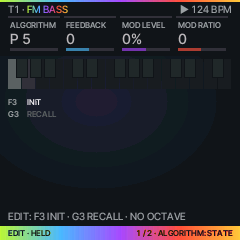
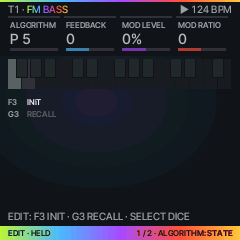
fix(ui): held-layer review fixes; held drum hit survives MORE turns
- lock_turn: a knob turned with a step held keeps its hit (MORE pick,
  refusal, KNOB 3/4 hint, kit-sound messages)
- latched MACRO turns light the column and show the readout
- the ACID layers keep their own MAP/STATE view (ui.uxlv); lylv is
  GLO / SEQ TOOLS / REC / SAVE's only
- EDIT status says SELECT DICE; latched MACRO MAP no longer names F3/G3
- FX macros at OFF drawn dim on the knob row

Changed region(s): [[0.525, 0.875, 0.7875, 0.9333]]

diff --git a/tests/ui_test.c b/tests/ui_test.c
@@ -17097,15 +17097,16 @@ static int test_t9_knobs(void)
         ok &= perf_m[0] != 0 && uxl_panels == n0 + 1u && str_eq(uxl_status(LAYER_FX, k, &col), "STEP LOOP \xB7 1/2") && col == UX_TEXT;
         if (!ok) printf("  FX status \"%s\", %u panels\n", uxl_status(LAYER_FX, k, &col), (unsigned)(uxl_panels - n0));
         turn(EN_ALGO, 1); frame();
-        ok &= ui.lylv == 1u && uxl_panels == n0 + 2u;
+        ok &= uxl_state(LAYER_FX) == 1u && uxl_panels == n0 + 2u;
         turn(EN_ALGO, 3); frame();
-        ok &= ui.lylv == 1u;                             /* (no further: two views) */
+        ok &= uxl_state(LAYER_FX) == 1u;                 /* (no further: two views) */
         n0 = uxl_panels;
         turn(EN_ALGO, -1); frame();
-        ok &= ui.lylv == 0u && uxl_panels == n0 + 1u;
-        ui.lylv = 2;                                     /* (GLO's STATE left over: STATE here, one detent back MAP) */
+        ok &= uxl_state(LAYER_FX) == 0u && uxl_panels == n0 + 1u;
+        ui.lylv = 2;                                     /* (GLO's STATE left over: not FX's, 3b task 9 fix; still MAP) */
         turn(EN_ALGO, -1); frame();
-        ok &= ui.lylv == 0u;
+        ok &= uxl_state(LAYER_FX) == 0u && ui.lylv == 2u;
+        ui.lylv = 0;
     }
     uxt9_close(2);
     pm_off();
@@ -17283,6 +17284,105 @@ static int test_t9_lock(void)
     return bad;
 }
 
+/* (3b task 9 fix) DRUM-X's grid, DRUM MORE shown last, a hit on step 5 held: mode 0 KNOB 1 picks a row, 1 KNOB 2 on a
+ * kit byte (refused), 2 KNOB 3 (the hint), 3 nothing turned (a tap: the hit goes). 1: the hit there after the key is let go */
+static int uxt9f_hit(int mode)
+{
+    track_t *t;
+    uint32_t kn;
+    ui_power_on(); frame();
+    song.sel = 3; t = &trk[3];
+    track_defaults_steps(t); t->p[P_SLEN] = 16;
+    motion_clear(t);
+    press(B_EDIT); frame();
+    turn(EN_SELECT, 3); frame();
+    uxm_at[uxm_key()].sel = (uint8_t)uxe_row(&UXM_DRM, P_E7);
+    nav_put(SEC_SEQ, "STEP"); frame();
+    grid_hit(t, 4, ui.lane, 1);
+    if (!((step_lanes(&t->step[4]) >> ui.lane) & 1u))
+        return -1;
+    kn = key_at(0, 4);
+    fm1_in.notes |= 1u << kn; host_notes |= 1u << kn; frame();
+    if (mode == 0) { turn(EN_K1, 1); frame(); }
+    if (mode == 1) { turn(EN_K1, 1); frame(); turn(EN_K2, 1); frame(); }
+    if (mode == 2) { turn(EN_K3, 1); frame(); }
+    fm1_in.notes &= ~(1u << kn); host_notes &= ~(1u << kn); frame(); frame();
+    return (int)((step_lanes(&t->step[4]) >> ui.lane) & 1u);
+}
+static int test_t9_fix(void)
+{
+    int bad = 0, ok, h[4], m;
+    ux_knob_t k[4];
+    uint16_t col;
+    char nm[16];
+    uint32_t c;
+    /* 1. a MORE pick, a refusal or KNOB 3 with a hit held on the grid: the hit stays (a tap alone still takes it) */
+    for (m = 0; m < 4; m++)
+        h[m] = uxt9f_hit(m);
+    ok = h[0] == 1 && h[1] == 1 && h[2] == 1 && h[3] == 0;
+    if (!ok) printf("  hit after: pick %d, refused %d, KNOB 3 %d, tap %d\n", h[0], h[1], h[2], h[3]);
+    bad += check("3b task 9 fix: DRUM grid, MORE: a hit held for a KNOB 1 pick, a refused KNOB 2, KNOB 3 stays when let go", ok);
+    /* 3. MACRO latched: a turn lights its column and says MACRO 1 . its value */
+    ui_power_on(); frame();
+    go_title("ENV"); frame();
+    btn_down(B_LFO); frames(800); btn_up(B_LFO); frames(400);
+    ok = mac_latch && !layer_open();
+    turn(EN_K1, 4); frame();
+    uxl_knobs(LAYER_MACRO, k);
+    ok &= ux_knob_hot() == 0 && !strncmp(uxl_status(LAYER_MACRO, k, &col), "MACRO 1 \xB7 ", 10) && col == UX_TEXT;
+    if (!ok) printf("  latched: hot %d \"%s\"\n", (int)ux_knob_hot(), uxl_status(LAYER_MACRO, k, &col));
+    /* 5. .. its keys do nothing while latched: F3 and G3 not named on its MAP (held: DICE, CLEAR) */
+    ok &= ly_keyname(LAYER_MACRO, 0, 0, nm) == LS_OFF && !nm[0];
+    (void)ly_keyname(LAYER_MACRO, 0, 1, nm);
+    ok &= !nm[0];
+    press(B_LFO); frames(100);
+    btn_down(B_LFO); frames(800);
+    (void)ly_keyname(LAYER_MACRO, 0, 0, nm);
+    ok &= layer_open() == LAYER_MACRO && str_eq(nm, "DICE");
+    btn_up(B_LFO); frames(400);
+    if (mac_latch) { press(B_LFO); frames(100); }
+    bad += check("  MACRO latched: a turn lights the column, MACRO 1 . value on the status line; F3 / G3 unnamed (held: DICE)", ok);
+    /* 4. a view chosen in one layer: not what another opens (FX STATE: GLO still MAP; GLO KNOBS: FX still STATE, EDIT MAP) */
+    ui_power_on(); frame();
+    go_title("ENV"); frame();
+    btn_down(B_FX); frames(800);
+    turn(EN_ALGO, 1); frame();
+    ok = uxl_state(LAYER_FX) == 1u;
+    btn_up(B_FX); frames(400);
+    if (fx_lock) { press(B_FX); frames(100); }
+    btn_down(B_GLO); frames(800);
+    ok &= ui.layer == LAYER_GLO && ui.lylv == 0u;
+    turn(EN_ALGO, 1); frame();
+    ok &= ui.lylv == 1u;
+    btn_up(B_GLO); frames(400);
+    btn_down(B_FX); frames(800);
+    ok &= ui.layer == LAYER_FX && uxl_state(LAYER_FX) == 1u && ui.lylv == 1u;
+    btn_up(B_FX); frames(400);
+    if (fx_lock) { press(B_FX); frames(100); }
+    btn_down(B_EDIT); frames(800);
+    ok &= ui.layer == LAYER_EDIT && uxl_state(LAYER_EDIT) == 0u;
+    btn_up(B_EDIT); frames(400);
+    if (!ok) printf("  views: FX %u EDIT %u GLO %u\n", (unsigned)uxl_state(LAYER_FX), (unsigned)uxl_state(LAYER_EDIT), ui.lylv);
+    bad += check("  a layer's view (ALGORITHM) its own: FX's STATE not GLO's, GLO's KNOBS not FX's, EDIT still MAP", ok);
+    /* 5. EDIT's status line says SELECT dices (a synth and DRUM) */
+    ok = strstr(UXL_SAY[UXL_S_EDIT], "SELECT DICE") && strstr(UXL_SAY[UXL_S_EDRM], "SELECT DICE");
+    bad += check("  EDIT's status line: SELECT DICE (synth, DRUM)", ok);
+    /* 6. FX's macros at OFF: dim; one in use: not */
+    ui_power_on(); frame();
+    for (c = 0; c < 4u; c++) perf_m[c] = 0;
+    uxl_knobs(LAYER_FX, k);
+    ok = k[0].off && k[1].off && k[2].off && k[3].off && str_eq(k[2].value, "OFF");
+    perf_m[2] = 40;
+    uxl_knobs(LAYER_FX, k);
+    ok &= k[0].off && !k[2].off;
+    perf_m[2] = 0;
+    uxl_knobs(LAYER_MACRO, k);
+    ok &= !k[0].off;
+    bad += check("  FX's macros at OFF dim on the knob row (in use: not)", ok);
+    ui_power_on();
+    return bad;
+}
+
 int main(void)
 {
     setvbuf(stdout, NULL, _IONBF, 0);
@@ -17447,6 +17547,7 @@ int main(void)
     bad += test_t9_knobs();
     bad += test_t9_names();
     bad += test_t9_lock();
+    bad += test_t9_fix();                               /* (3b task 9 fix) */
     bad += test_edit_syn_is_sound();
     bad += test_edit_syn_knobs_move();
     bad += test_edit_lofi_knob1();

diff --git a/firmware/src/ux_layer.c b/firmware/src/ux_layer.c
@@ -32,8 +32,8 @@ static const char *const UXL_KEYP[16] = {"REPEAT 1/8", "REPEAT 1/16", "REPEAT 1/
 /* the status line's words when nothing else is said: the layer, what its keys and OCT do */
 enum { UXL_S_FX, UXL_S_LATCH, UXL_S_LOCK, UXL_S_EDIT, UXL_S_EDRM, UXL_S_SCL, UXL_S_MAC, UXL_S_MLAT, UXL_S_N };
 static const char *const UXL_SAY[UXL_S_N] = {"FX: KEYS PLAY EFFECTS \xB7 BLACK KEYS MUTE", "FX LATCH: KEYS ON / OFF \xB7 OCT- ALL OFF",
-                                             "FX LOCKED: PRESS FX TO UNLOCK", "EDIT: F3 INIT \xB7 G3 RECALL \xB7 NO OCTAVE",
-                                             "EDIT: F3 INIT \xB7 G3 RECALL \xB7 BLACK KEYS MUTE",
+                                             "FX LOCKED: PRESS FX TO UNLOCK", "EDIT: F3 INIT \xB7 G3 RECALL \xB7 SELECT DICE",
+                                             "EDIT: SELECT DICE \xB7 BLACK KEYS MUTE",
                                              "SCL: A KEY SETS THE ROOT \xB7 NO OCTAVE", "LFO: F3 DICE \xB7 G3 CLEAR \xB7 SELECT DICE",
                                              "MACROS LATCHED: PRESS LFO TO CLOSE"};
 static const char *const UXL_GXSAY[4] = {"GLITCH HELD: ITS FOUR KNOBS", "TAPE STOP HELD: KNOB 1 SCRATCHES",
@@ -43,6 +43,8 @@ enum { UXL_W_FX, UXL_W_LATCH, UXL_W_LOCK, UXL_W_EDIT, UXL_W_SCL, UXL_W_MAC, UXL_
 static const char *const UXL_WHERE[7] = {"FX \xB7 HOLD", "FX \xB7 LATCH", "FX \xB7 LOCKED", "EDIT \xB7 HELD", "SCL \xB7 HELD",
                                          "LFO \xB7 MACROS", "LFO \xB7 LATCHED"};
 static const char *const UXL_ALGO[2] = {"1 / 2 \xB7 ALGORITHM: STATE", "2 / 2 \xB7 ALGORITHM: MAP"};
+/* (3b task 9 fix) layer l's view: 1 STATE, 0 MAP (its own: ui.uxlv; GLO SEQ TOOLS REC SAVE keep ui.lylv) */
+static uint32_t uxl_state(uint32_t l) { return (ui.uxlv >> l) & 1u; }
 static uint32_t uxl_panels;                             /* the panels drawn (tests/ui_test.c: one a change, none idle) */
 
 /* KNOB 1..4 of layer l as the knob row shows them */
@@ -53,6 +55,7 @@ static void uxl_knobs(uint32_t l, ux_knob_t k[4])
         k[c].label = "";
         k[c].value[0] = 0;
         k[c].bar = 0;
+        k[c].off = 0;
     }
     if (l == LAYER_FX && perf_gfocus() != PF_N) {       /* a glitcher's key down: its four */
         uint32_t x = perf_gx(perf_gfocus());
@@ -74,6 +77,7 @@ static void uxl_knobs(uint32_t l, ux_knob_t k[4])
             uint32_t m = perf_m[c];
             k[c].label = UXL_PM[c];
             k[c].bar = (uint8_t)(m * 255u / PM_MAX[c]);
+            k[c].off = (uint8_t)(c == 1u ? !(pm_trn() % 8u) : !m);   /* (3b task 9 fix: OFF dim, as JIANT's cards) */
             if (!c)
                 str_cpy(k[c].value, UXL_LOOP[(m + 2u) / 3u % 5u], sizeof k[c].value);
             else if (c == 1u)
@@ -289,14 +293,14 @@ static void ux_layer_draw(void)
         str_cpy(ly_card[c].l, k[c].label, sizeof ly_card[c].l);
         str_cpy(ly_card[c].v, k[c].value, sizeof ly_card[c].v);
     }
-    sig = layer_sig(l) * 31u + ux_glow_eff(1) * 977u + (ui.lylv ? 7u : 0u);
+    sig = layer_sig(l) * 31u + ux_glow_eff(1) * 977u + (uxl_state(l) ? 7u : 0u);
     for (c = 0; c < 4u; c++)
         sig = str_hash(sig * 31u + k[c].bar, k[c].value);
     if (all || sig != panel_sig) {
         panel_sig = sig;
         uxl_panels++;
         ux_panel_begin(1);
-        if (ui.lylv) {                                  /* STATE (ALGORITHM: MAP <-> STATE) */
+        if (uxl_state(l)) {                                  /* STATE (ALGORITHM: MAP <-> STATE) */
             lst_ux = 1;
             layer_state(l);
             lst_ux = 0;
@@ -305,10 +309,10 @@ static void ux_layer_draw(void)
         ux_panel_end();
     }
     w = uxl_where(l);
-    sig = str_hash(str_hash(3u, w), UXL_ALGO[ui.lylv ? 1 : 0]);
+    sig = str_hash(str_hash(3u, w), UXL_ALGO[uxl_state(l)]);
     if (all || sig != foot_sig) {
         foot_sig = sig;
-        ux_footer(w, UXL_ALGO[ui.lylv ? 1 : 0]);
+        ux_footer(w, UXL_ALGO[uxl_state(l)]);
     }
     st = uxl_status(l, k, &sc);
     ux_status(st, sc);

diff --git a/tests/ui_render.c b/tests/ui_render.c
@@ -1265,7 +1265,7 @@ static void setup(int s)
         break;
     }
     case S_LY_FX_KNOBS: case S_LY_FX_STATE:            /* (0.8.5) a layer's lens: FX's KNOBS, STATE */
-        go_home(); ui.layer = LAYER_FX; ui.lylv = s == S_LY_FX_KNOBS ? 1 : 2;
+        go_home(); ui.layer = LAYER_FX; ui.uxlv = 1u << LAYER_FX;   /* (3b task 9: the ACID FX has MAP and STATE, its own) */
         perf_held = perf_act = PF_BIT(PF_R16) | PF_BIT(PF_GLT) | PF_BIT(PF_SCRU) | PF_BIT(PF_M1 + 1);
         perf_m[0] = 6; perf_m[1] = 7; perf_m[2] = 40; perf_m[3] = 30; pf.sw[0] = 1u << 23;   /* (0.9.14: the macros) */
         break;
@@ -1504,11 +1504,11 @@ static void setup(int s)
         perf_held = perf_act = perf_down = PF_BIT(PF_TAPE); pf.mode = BM_TAPE; pf.state = 1; perf_gp[GX_TAPE][2] = -100;
         break;
     case S_FX_SHUF:
-        song.playing = 1; ui.layer = LAYER_FX; ui.lylv = 1;
+        song.playing = 1; ui.layer = LAYER_FX; ui.uxlv = 1u << LAYER_FX;
         perf_held = perf_act = perf_down = PF_BIT(PF_SHUF) | PF_BIT(PF_R8); perf_gp[GX_SHUF][0] = 100; perf_gp[GX_SHUF][2] = 100;
         break;
     case S_FX_FRZ:
-        song.playing = 1; ui.layer = LAYER_FX; ui.lylv = 1;
+        song.playing = 1; ui.layer = LAYER_FX; ui.uxlv = 1u << LAYER_FX;
         perf_held = perf_act = perf_down = PF_BIT(PF_FRZ); perf_gp[GX_FRZ][1] = 12; perf_gp[GX_FRZ][3] = 0;
         break;
     case S_REVERB:                                      /* (3b task 8) SPACE: SHIMMER at LOAD LITE (plays as ROOM: said), REV TYPE
@@ -1896,7 +1896,7 @@ static void setup(int s)
      * turned: its readout), FX held (REPEAT 1/16, GLITCH, CRUSH, T2's mute; the macros up), SCL (D# MINOR), FX's STATE (EDIT on a
      * DRUM-X track: layer_edit_drum, S_EDIT_DRUM); a step held on STEP with EDIT's MORE the locks' page (MORPH locked on it) */
     case S_LAYER_EDIT: case S_LAYER_MACRO: case S_LAYER_FX: case S_LAYER_SCL: case S_LAYER_FX_STATE:
-        go_title("ENV"); ui.lylv = 0; ux_hot_k = -1;
+        go_title("ENV"); ui.lylv = 0; ui.uxlv = 0; ux_hot_k = -1;
         ui.layer = (uint8_t)(s == S_LAYER_EDIT ? LAYER_EDIT : s == S_LAYER_MACRO ? LAYER_MACRO :
                              s == S_LAYER_SCL ? LAYER_SCL : LAYER_FX);
         if (s == S_LAYER_MACRO) {
@@ -1908,7 +1908,7 @@ static void setup(int s)
         if (s == S_LAYER_FX || s == S_LAYER_FX_STATE) {
             perf_held = perf_act = PF_BIT(PF_R16) | PF_BIT(PF_GLT) | PF_BIT(PF_SCRU) | PF_BIT(PF_M1 + 1);
             perf_m[0] = 6; perf_m[1] = 7; perf_m[2] = 40; perf_m[3] = 30;
-            ui.lylv = (uint8_t)(s == S_LAYER_FX_STATE);
+            ui.uxlv = (uint16_t)(s == S_LAYER_FX_STATE ? 1u << LAYER_FX : 0u);
         }
         if (s == S_LAYER_SCL) { TSEL->p[P_ROOT] = 3; TSEL->p[P_SCALE] = 2; }
         break;

diff --git a/firmware/src/ui_input.c b/firmware/src/ui_input.c
@@ -675,6 +675,8 @@ static void lock_turn(uint32_t k, int32_t s, uint64_t held)
         ui_message("STOP TO EDIT");
         return;
     }
+    ui.plk_rm &= ~held;                                 /* (held for a lock: its hit stays; 3b task 9 fix: also a MORE pick, a
+                                                         * refusal, an empty card's turn) */
     if (id == 0xFFu) {                                  /* (an empty card: nothing to lock) */
         const page_t *lp = ui.plk_src && ui.plk_src <= NPAGES ? &PAGES[ui.plk_src - 1u] : 0;
         uint32_t v = lp ? page_id(lp, k & 3u) : 0xFFu;
@@ -694,7 +696,6 @@ static void lock_turn(uint32_t k, int32_t s, uint64_t held)
             ui_message("KIT SOUND: NO STEP LOCK");
         return;
     }
-    ui.plk_rm &= ~held;                                 /* (held for a lock: its hit stays) */
     d = track_desc(t, id);
     s = accel(EN_K1 + k, s, d->fmt == F_ENUM ? 0 : d->max - d->min);
     for (i = 0; i < NSTEP; i++) {
@@ -2163,9 +2164,11 @@ static void ui_input_frame(void)
              * OCT- put back the layer's track only) */
             int32_t a = panel_enc(EN_ALGO);
             if (a && ui.layer) {
-                int ux = ux_layer_owns(ui.layer);       /* (3b task 9: the ACID layers' MAP, STATE, their knob row always shown;
-                                                         * GLO's STATE, 2, is their STATE) */
-                ui.lylv = (uint8_t)clamp((int32_t)(ux && ui.lylv ? 1u : ui.lylv) + a, 0, ux ? 1 : 2);
+                if (ux_layer_owns(ui.layer))            /* (3b task 9: the ACID layers' MAP, STATE, their knob row always shown;
+                                                         * fix: each its own, uxlv, not GLO's lens) */
+                    ui.uxlv = (uint16_t)(a > 0 ? ui.uxlv | 1u << ui.layer : ui.uxlv & ~(1u << ui.layer));
+                else
+                    ui.lylv = (uint8_t)clamp((int32_t)ui.lylv + a, 0, 2);
                 ui.force = 1;
                 combo = 1;
             }
@@ -2522,6 +2525,7 @@ static void ui_input_frame(void)
         }
         if (mac_latch && !ui.menu && !ui.confirm) {     /* (JIANT 0.4) the MACRO layer latched: M1..M4 */
             macro_v[k] = (uint8_t)clamp(macro_v[k] + accel(EN_K1 + k, s, 127), 0, 127);
+            ux_knob_touch(k);                           /* (3b task 9 fix: as held, its column lit, its readout) */
             continue;
         }
         if (ui.entry_open && !ui.home && cur_page()->graph == GR_ROLL && !grid_on() && lock_held() &&

diff --git a/firmware/src/ui.c b/firmware/src/ui.c
@@ -275,7 +275,10 @@ static struct {
     uint8_t menu;                /* 0 off, 1 list, 2 about + credits (HOME held), 3 ABOUT > PROFILE (0.9.14) */
     uint8_t menu_sel;            /* MENU: the setting turned last (menu_items.c MI_*; its page MPAGE), kept while it runs */
     uint8_t mlv;                 /* (0.8.5) MENU's view: 1 TAB (its rows; 0.9.2: always, 0 MENU and 2 ROW for the renders) */
-    uint8_t lylv;                /* (0.8.5) a held layer's lens: 0 MAP, 1 KNOBS, 2 STATE (ALGORITHM while held) */
+    uint8_t lylv;                /* (0.8.5) a held layer's lens: 0 MAP, 1 KNOBS, 2 STATE (ALGORITHM while held); GLO, SEQ
+                                  * TOOLS, REC, SAVE (JIANT's overlay) */
+    uint16_t uxlv;               /* (3b task 9 fix) the ACID layers' (EDIT MACRO FX SCL, ux_layer.c) own: a bit a layer
+                                  * (1 << LAYER_*), STATE; clear MAP */
     uint16_t menu_scroll;        /* continuous ABOUT + CREDITS position, pixels */
     uint32_t menu_sig, home_t0;  /* HOME press time (btn_hold) */
     uint8_t force;               /* full redraw pending */
@@ -649,6 +652,9 @@ static int lz_mock_cards(void) { return lz_on() && lz_fam() <= LZ_FX; }
 /* the tab lit: the section's group shown, the menu's tab, a layer's view */
 static uint32_t menu_tab(void);
 static uint32_t menu_page(void);                        /* (0.9.18) the MENU's page (ui_menu.c) */
+static int ux_layer_owns(uint32_t l);                  /* (ux_layer.c) */
+/* the layer held's view: 0 MAP, 1 KNOBS, 2 STATE (the ACID layers: MAP or STATE, their own, uxlv) */
+static uint32_t layer_lv(void) { return ux_layer_owns(ui.layer) ? ((ui.uxlv >> ui.layer) & 1u) * 2u : ui.lylv % 3u; }
 static uint32_t lz_level(void)
 {
     uint8_t cnt[8], gi[8];
@@ -656,7 +662,7 @@ static uint32_t lz_level(void)
     if (f == LZ_MENU)
         return menu_tab();
     if (f == LZ_LAYER)
-        return ui.lylv % 3u;
+        return layer_lv();
     (void)nav_groups(cnt, gi, &g, &p, &i, &m);
     return g;
 }

diff --git a/firmware/src/ui_draw.c b/firmware/src/ui_draw.c
@@ -902,7 +902,7 @@ static uint32_t tabs_now(const char **nm, const char **tab, uint8_t *cnt, uint32
             tab[k] = 0;
             cnt[k] = 0;
         }
-        *lv = ui.lylv % 3u;
+        *lv = layer_lv();
         *at = 0;
         return 3;
     }
@@ -979,7 +979,7 @@ static __attribute__((noinline)) void foot_crumbs(char *b, uint32_t n)   /* b ho
         static const char *const LLV[3] = {"MAP", "KNOBS", "STATE"};
         str_cpy(b, LN[ui.layer % LAYER_N], n);
         str_cpy(b + str_len(b), " \xB7 ", 4);
-        str_cpy(b + str_len(b), LLV[ui.lylv % 3u], 8);
+        str_cpy(b + str_len(b), LLV[layer_lv()], 8);
         return;
     }
     {
@@ -1009,7 +1009,7 @@ static int32_t crumb_count(char *b)
         k = menu_page();                                /* (0.9.18: the page among the eight (ACID FM 0.3; nine), was the row) */
         n = MP_COUNT;
     } else if (lz_fam() == LZ_LAYER) {
-        k = ui.lylv % 3u;
+        k = layer_lv();
         n = 3;
     } else if (gen_on() && lz_fam() == LZ_HOME) {      /* (ACID FM 3a) GEN: "GEN 2/3" */
         str_cpy(b, "GEN ", 5);

diff --git a/firmware/src/ux_widgets.c b/firmware/src/ux_widgets.c
@@ -77,7 +77,8 @@ static void ux_knobs(const ux_knob_t k[4], int32_t hot)
         {
             int32_t dy;
             const aafont_t *vf = ux_val_face(k[i].value, &dy);
-            cv_text_on(x + 2, 14 + dy, vf, k[i].value, on ? UX_TEXT : ux_mix(UX_BG, UX_TEXT, 78), bg);
+            cv_text_on(x + 2, 14 + dy, vf, k[i].value, on ? UX_TEXT : k[i].off ? ux_mix(UX_BG, UX_MID, 55) :   /* (off: not in */
+                       ux_mix(UX_BG, UX_TEXT, 78), bg);                                            /* use, dim) */
         }
         fw = (int32_t)k[i].bar * (UX_COL_W - 4) / 255;
         cv_rect(x + 2, 32, UX_COL_W - 4, 3, UX_LINE);

diff --git a/firmware/src/ui_layer.c b/firmware/src/ui_layer.c
@@ -1010,7 +1010,7 @@ static uint32_t ly_keyname(uint32_t l, int blk, uint32_t p, char *nm)
             return !ui.home && (cur_page()->graph == GR_USER || cur_page()->graph == GR_SLOTS) ? LS_OFF : LS_DIM;
         return p == SK_MODE && live.mode ? LS_SEL : p == SK_REC ? (live.srec == 2u ? LS_HELD : live.srec ? LS_WAIT : LS_OFF) : LS_OFF;
     }
-    if (l == LAYER_MACRO && !blk && p < 2u) {            /* F3 DICE, G3 CLEAR */
+    if (l == LAYER_MACRO && !blk && p < 2u && layer_open()) {   /* F3 DICE, G3 CLEAR (held; latched the keys play: 3b task 9 fix) */
         str_cpy(nm, p ? "CLEAR" : "DICE", 12);
         return busy;
     }

diff --git a/firmware/src/ux_widgets.h b/firmware/src/ux_widgets.h
@@ -28,7 +28,7 @@
 #define UX_STRIP_W  13
 #define UX_STRIP_H  18
 
-typedef struct { const char *label; char value[12]; uint8_t bar; /* 0..255 */ } ux_knob_t;   /* (3b task 7 fix: value 12, a name: "CHO DEPTH") */
+typedef struct { const char *label; char value[12]; uint8_t bar; /* 0..255 */ uint8_t off; /* not in use: its value dim */ } ux_knob_t;   /* (3b task 7 fix: value 12, a name: "CHO DEPTH") */
 
 /* top line + header, LCD y 0..15: "T<trk> · sound" (trk 0: the sound alone), right in MID */
 static void ux_header(uint32_t trk, const char *sound, const char *right);

diff --git a/firmware/src/ux_section.c b/firmware/src/ux_section.c
@@ -860,6 +860,7 @@ static void uxs_knobs(const page_t *pg, ux_knob_t k[4])
         k[c].label = "";
         k[c].value[0] = 0;
         k[c].bar = 0;
+        k[c].off = 0;
     }
     if (pg->graph == GR_MORE) {
         uint32_t s = uxm_at[uxm_key()].sel, t = uxm_at[uxm_key()].top, n;

diff --git a/firmware/src/ux_home.c b/firmware/src/ux_home.c
@@ -316,6 +316,7 @@ static void ux_home_knobs(ux_knob_t k[4], char lbl[4][10])
             k[c].bar = (uint8_t)((uint32_t)clamp(trk[f + c].p[P_LEVEL], 0, 127) * 255u / 127u);
         }
         k[c].label = lbl[c];
+        k[c].off = 0;
     }
 }
 
